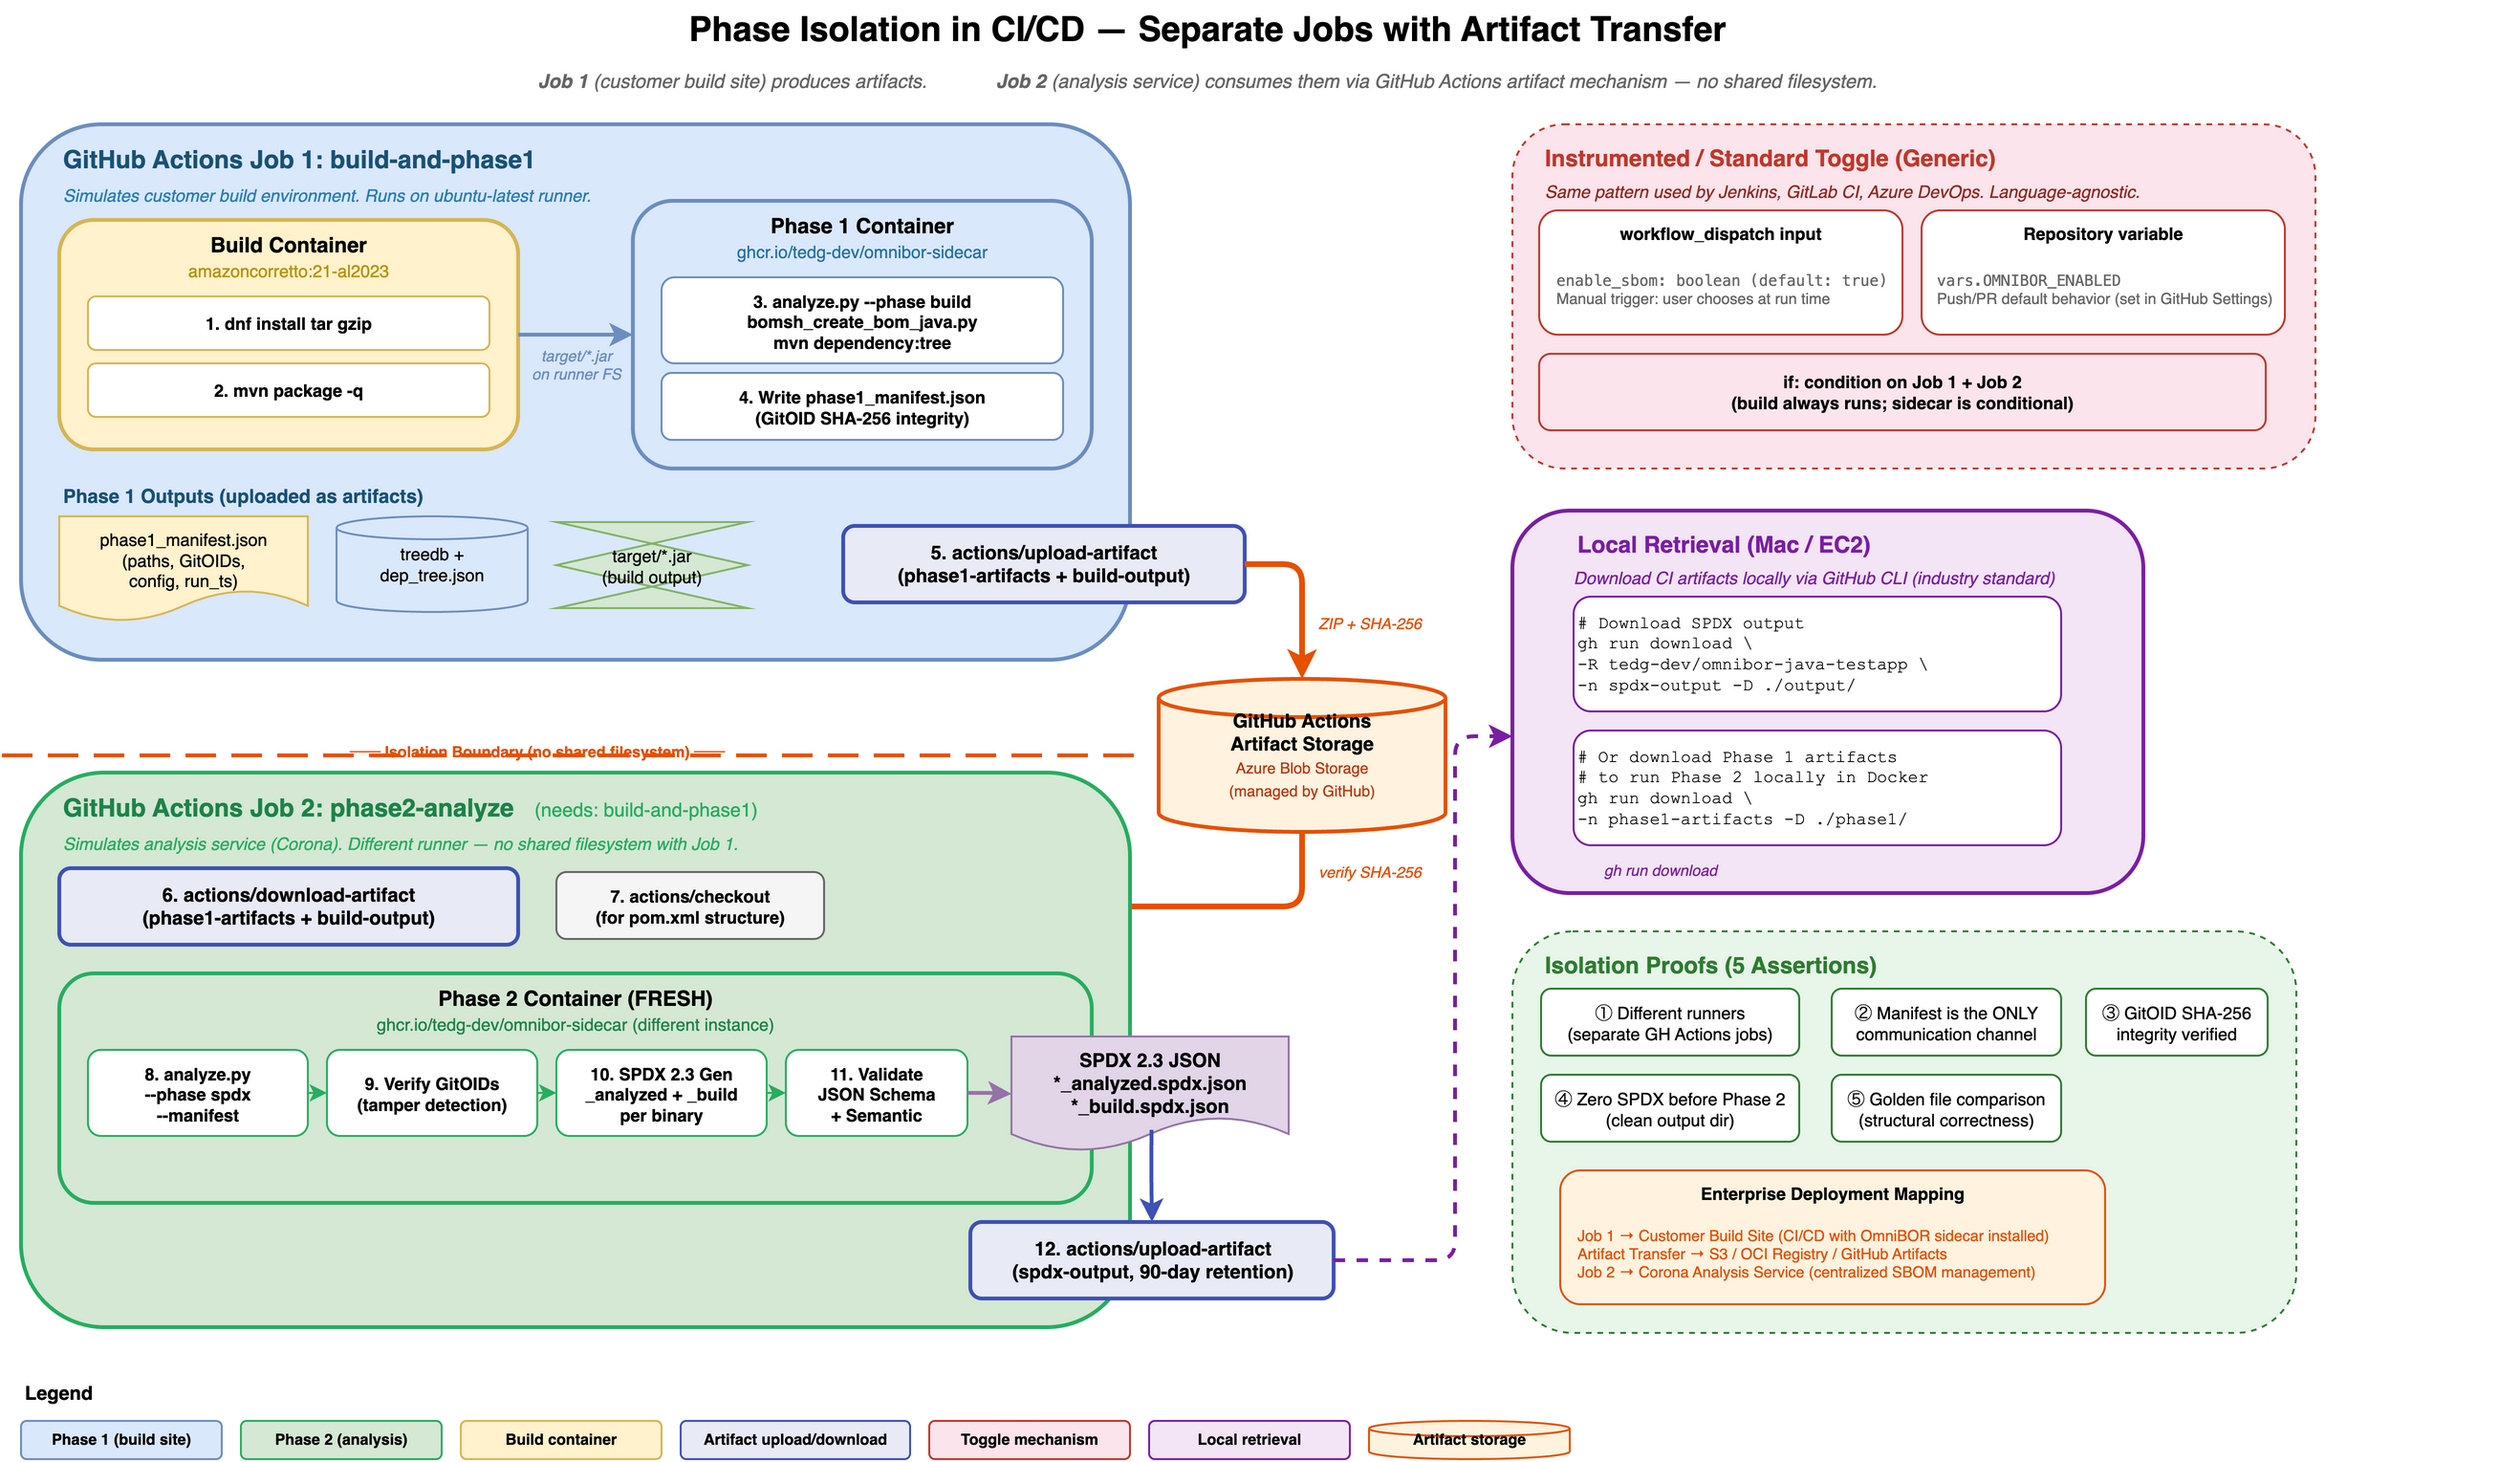
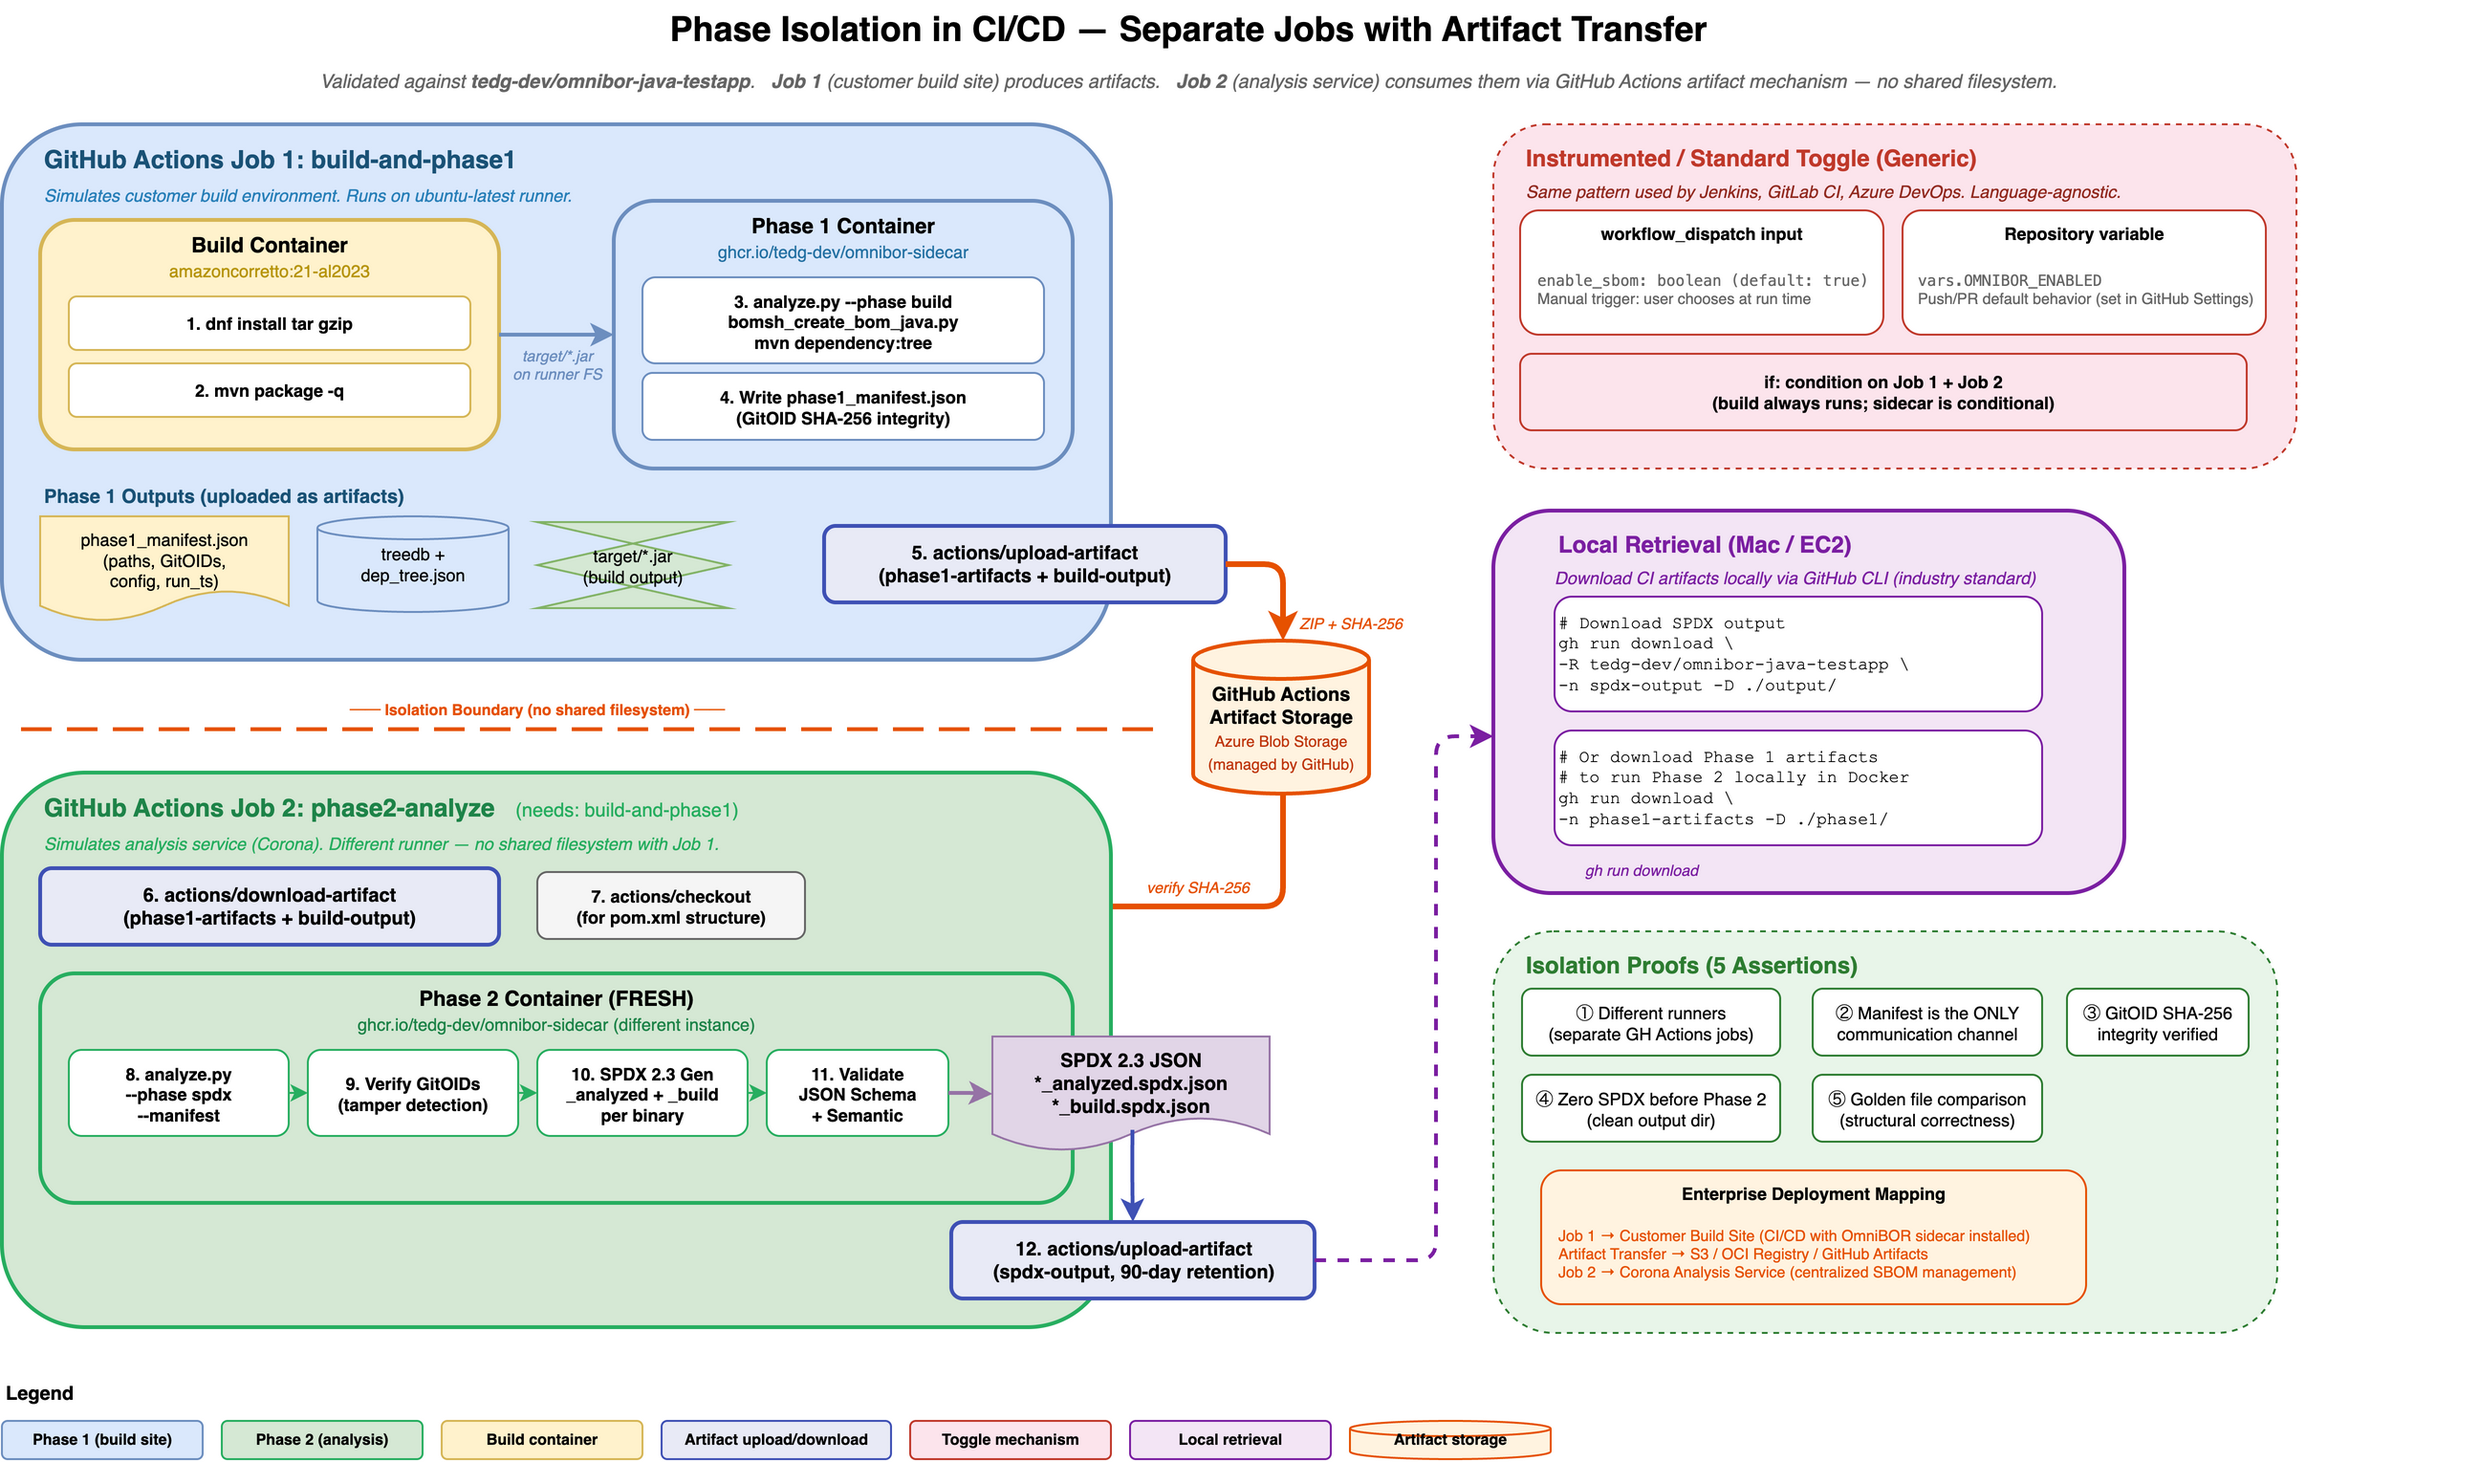
docs: add test repo name to CI/CD diagram, remove duplicate diagram ref (#181)

diff --git a/docs/features/phase-isolation/phase-isolation-system-test.md b/docs/features/phase-isolation/phase-isolation-system-test.md
@@ -305,7 +305,6 @@ All test logs are preserved in `/tmp/phase_isolation_test/<repo>/`:
 
 | Diagram | Description |
 |---------|-------------|
-| [![Phase Isolation CI/CD](phase-isolation-ci-cd.png)](phase-isolation-ci-cd.drawio) | **Phase Isolation CI/CD** — Two-job GitHub Actions architecture with artifact transfer, toggle mechanism, and local retrieval. ([drawio source](phase-isolation-ci-cd.drawio)) |
 | [![Two-Phase Sidecar Architecture](sidecar-two-phase-corona-p1.png)](sidecar-two-phase-corona.drawio) | **Two-Phase Sidecar Architecture** — General Phase 1/Phase 2 pipeline with per-language interception, artifact store, and provenance chain. ([drawio source](sidecar-two-phase-corona.drawio)) |
 
-> **Click any diagram to view full size.**
+> **Click diagram to view full size.**
